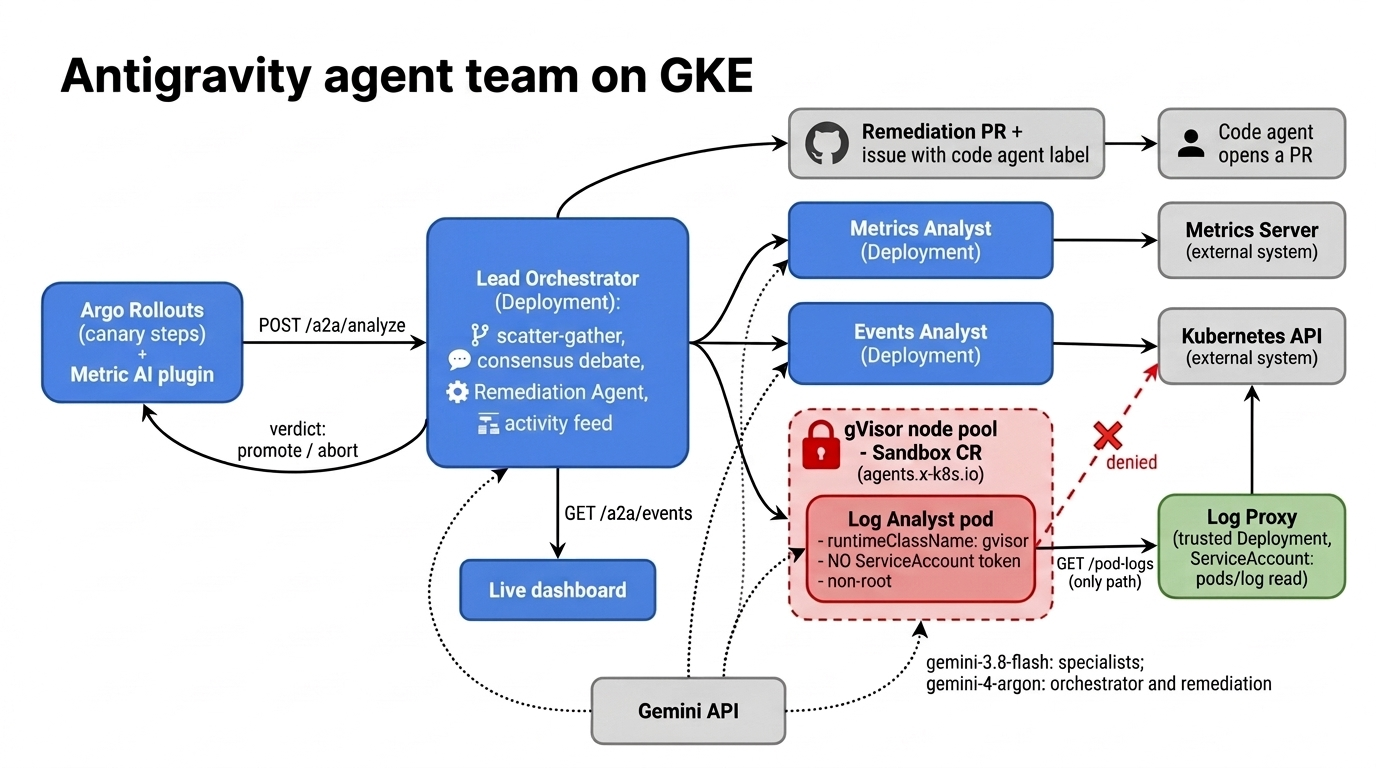
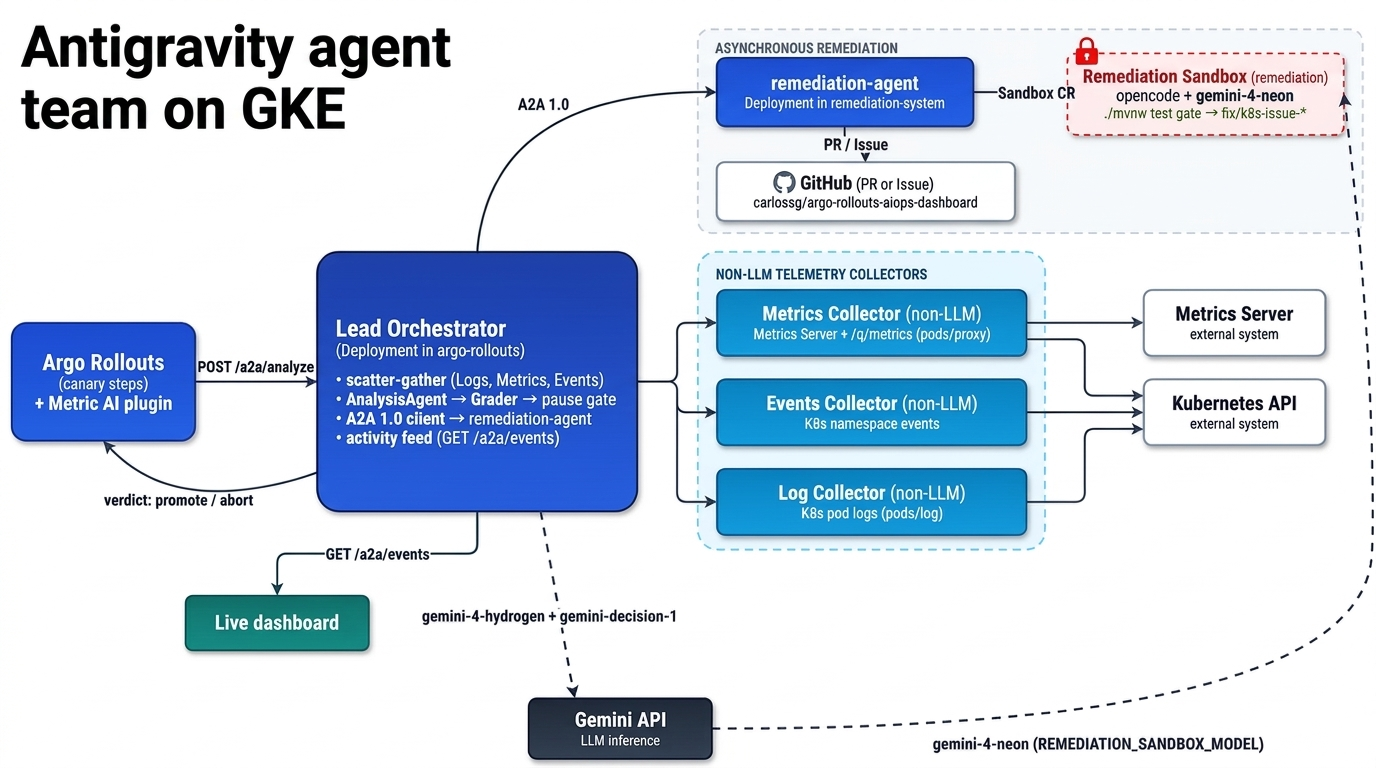
docs(slides): update generated architecture.png and slide references

diff --git a/2026-12_cloud_native_ai_summit/index.html b/2026-12_cloud_native_ai_summit/index.html
@@ -519,7 +519,7 @@
 <div class="pptx-shape" style="left:0px;top:0px;width:1280px;height:102px;background:#ffffff"></div>
 <div class="pptx-shape" style="left:0px;top:96px;width:1280px;height:6px;background:linear-gradient(90.0deg,#086288 0.0%,#18262d 100.0%)"></div>
 <div class="pptx-shape" style="left:38px;top:0px;width:985px;height:102px;background:transparent"><div class="pptx-text" style="justify-content:center;padding:0px 0px 0px 0px"><div><p style="font-family:&#x27;Arial&#x27;,Arial, sans-serif;font-size:34px;line-height:1.1176;text-align:left;margin-top:0px;margin-bottom:0px"><span style="font-family:&#x27;Arial&#x27;,Arial, sans-serif;font-size:34px;font-weight:700;font-style:normal;color:#15181f">Architecture</span></p></div></div></div>
-<div class="pptx-image" style="left:115px;top:116px;width:1050px;height:590px"><img src="assets/architecture.drawio.svg" alt="Antigravity agent team on GKE: Argo Rollouts calls a lead orchestrator coordinating metrics, events, and log collectors, with asynchronous sandboxed remediation through GitHub" style="left:0;top:0;width:100%;height:100%;object-fit:contain"></div>
+<div class="pptx-image" style="left:115px;top:116px;width:1050px;height:590px"><img src="assets/architecture.png" alt="Antigravity agent team on GKE: Argo Rollouts calls a lead orchestrator coordinating metrics, events, and log collectors, with asynchronous sandboxed remediation through GitHub" style="left:0;top:0;width:100%;height:100%;object-fit:contain"></div>
         </div>
       </section>
       <section aria-label="Demo time !!" data-source-slide="ppt/slides/slide14.xml">

diff --git a/2026-11_devfest_dakar/index.md b/2026-11_devfest_dakar/index.md
@@ -394,7 +394,7 @@ spec:
 
 ----
 
-<img width="1100" data-src="architecture.drawio.svg" alt="Antigravity agent team on GKE: Argo Rollouts calls a lead orchestrator coordinating metrics, events, and log collectors, with asynchronous sandboxed remediation through GitHub">
+<img width="1100" data-src="architecture.png" alt="Antigravity agent team on GKE: Argo Rollouts calls a lead orchestrator coordinating metrics, events, and log collectors, with asynchronous sandboxed remediation through GitHub">
 
 ---
 

diff --git a/2026-12_cloud_native_ai_summit/index.md b/2026-12_cloud_native_ai_summit/index.md
@@ -585,7 +585,7 @@ Fifteen lines, and none of it is prose. @SequenceAgent declares the order: the d
 
 Architecture
 
-![Antigravity agent team on GKE](assets/architecture.drawio.svg)
+![Antigravity agent team on GKE](assets/architecture.png)
 
 ---
 
